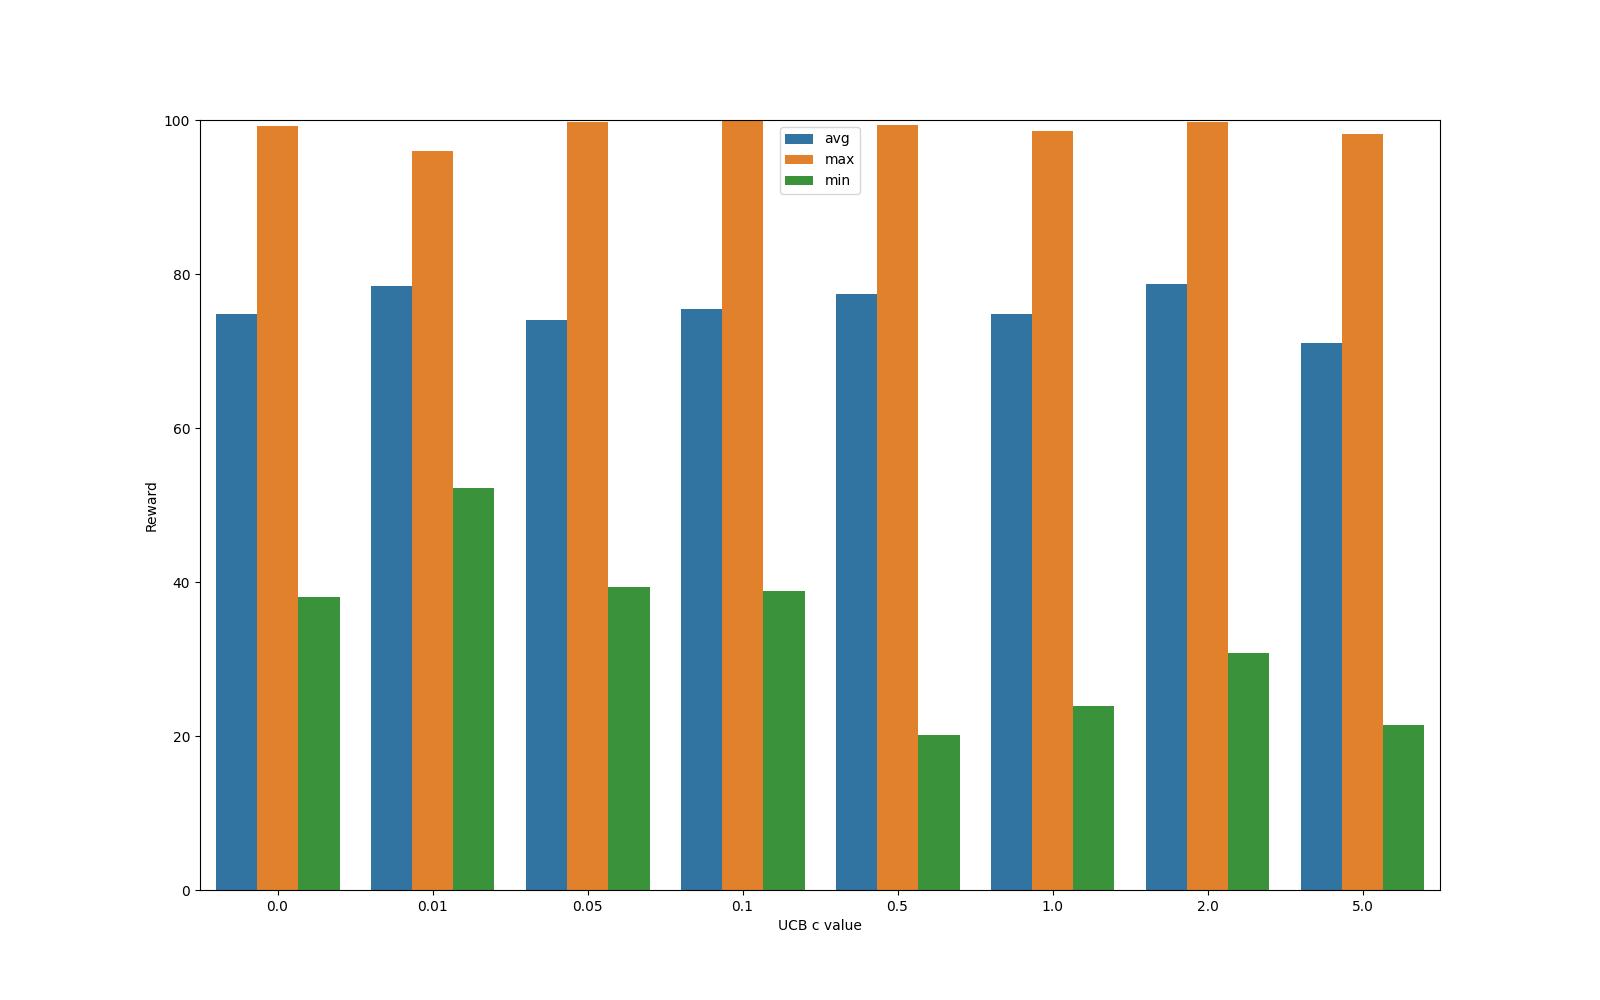
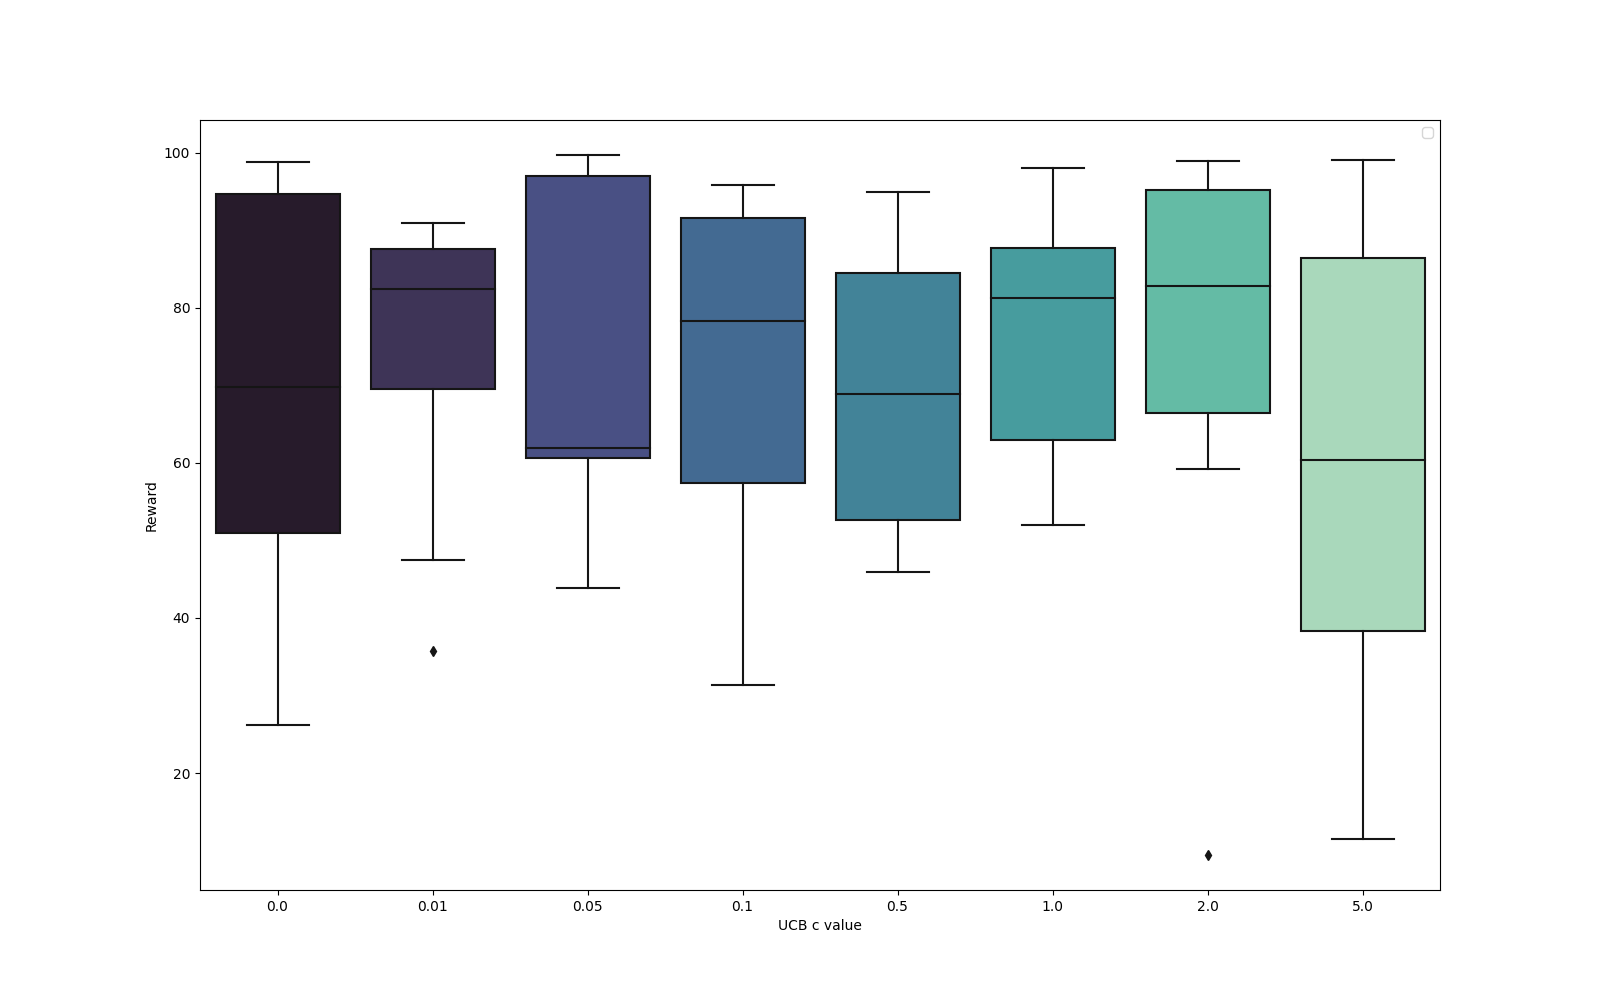
Changed to boxplots instead of bargraphs

diff --git a/1_MCTS/Analytics.py b/1_MCTS/Analytics.py
@@ -85,10 +85,12 @@ class Analytics:
         df = pd.DataFrame(stats)
         df = df[0:repeats]
 
-        plt.figure(figsize=(16,10))
-        sns.boxplot(x='c', y='value', hue='variable', data=df_melted)
+        c_values = [i for i in stats]
+        values = [[v for k,v in stats[i].items()] for i in stats]
 
-        plt.ylim(0, 100)
+        plt.figure(figsize=(16,10))
+        sns.boxplot(x=c_values, y=values, palette="mako")
+
         plt.ylabel('Reward')
         plt.xlabel('UCB c value')
         plt.legend()

diff --git a/1_MCTS/Main.py b/1_MCTS/Main.py
@@ -6,7 +6,7 @@ class Main:
 
 depth = 12
 c_values = [0, 0.01, 0.05, 0.1, 0.5, 1, 2, 5]
-repeats = 3
+repeats = 10
 
 statistics = {}
 
@@ -48,9 +48,9 @@ for c in c_values:
 
         avg_rank += rank_percent
 
-    statistics[c]['max'] = max_rank
-    statistics[c]['min'] = min_rank
-    statistics[c]['avg'] = avg_rank/repeats+1
+    # statistics[c]['max'] = max_rank
+    # statistics[c]['min'] = min_rank
+    # statistics[c]['avg'] = avg_rank/repeats+1
 
 print(statistics)
 
